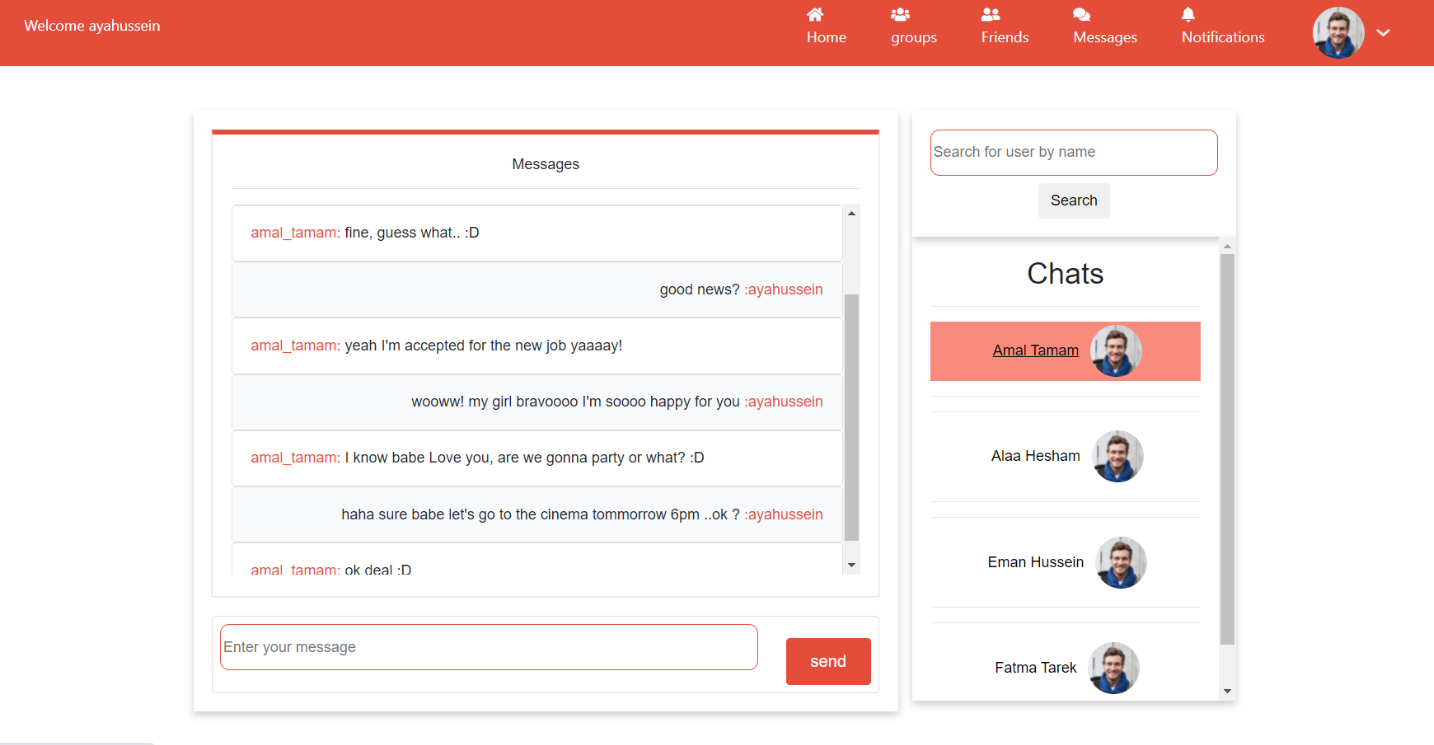
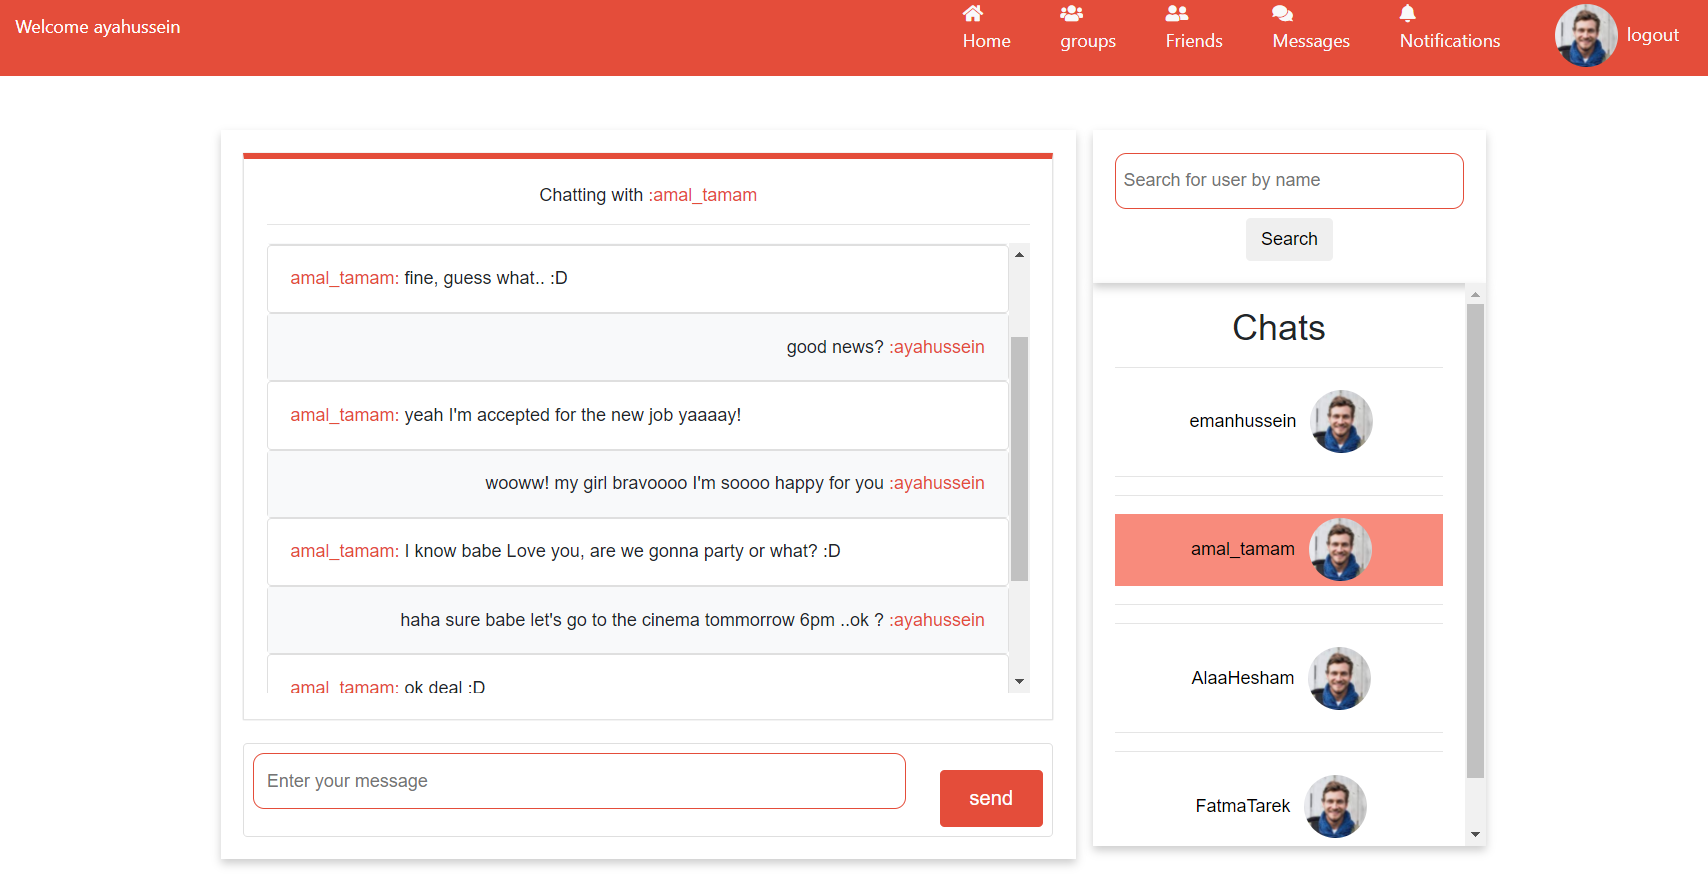
messages_createdadd added

diff --git a/msgnotifications/templates/index.html b/msgnotifications/templates/index.html
@@ -7,21 +7,23 @@
         <div class="col-sm-8 mycard d-flex flex-column">
             <div class=" post-topbar" >
                                 
-
-                    <h6>Messages</h6>
+                    <h6>Chatting with<span style="color:#e44d3a;"> :{{ msgto}}</span></h6>
                     <hr>
                     <div style="height:400px;overflow-y:scroll" >
                     {% for message in messages %}
                     <div class="card text-center">
                         {% if request.user == message.sender %}
-                            <div class="card-body  bg-light">
+                            <div class="card-body  bg-light"style="padding-bottom:0px">
                                 <h6 class="card-text"style="text-align:right">{{ message.text}}<span style="color:#e44d3a;"> :{{ message.sender}}</span></h6>
-                            
+                                <p style="text-align:left;color:gray;font-size:12px;margin:0px">{{ message.created_at}}</p>
+
                             </div>
+
                         
                         {% elif request.user == message.reciever %}
-                            <div class="card-body">
+                            <div class="card-body"style="padding-bottom:0px">
                                 <h6 class="card-text"style="text-align:left;"><span style="color:#e44d3a;">{{ message.sender}}: </span>{{ message.text}}</h6>
+                                <p style="text-align:right;color:gray;font-size:12px;margin:0px">{{ message.created_at}}</p>
 
                             </div>
                         {% endif %}
@@ -54,7 +56,7 @@
 
             <div class="mycard">
                 <form action="" method="GET">
-                    <input type="text" name="q" id="" class="post_input " placeholder="Search for user by name">
+                    <input type="text" name="q" id="" class="post_input " placeholder=" Search for user by name">
                     <input type="submit" class="btn mt-2" value="Search"></a>
                 </form>
             </div>    
@@ -64,12 +66,22 @@
 
             {% for friend in friends %}
             <hr>
-            <a href="?id={{ friend.id }}" style="color:black">
-                <div class="d-flex justify-content-center align-items-center" id="chatdiv">
-                    <div class="mx-2">{{friend.username}}</div>
-                    <img class="  m-1 rounded-circle"  src="{% static 'images/exPP3.png' %}">
-                </div>
-            </a>    
+                {% if msgto == friend.username %}
+                    <a href="?id={{ friend.id }}" style="color:black;">
+                    <div class="d-flex justify-content-center align-items-center" style="background-color:#f88b7c;"id="chatdiv">
+                        <div class="mx-2">{{friend.username}}</div>
+                        <img class="  m-1 rounded-circle"  src="{% static 'images/exPP3.png' %}">
+                    </div>
+                     </a> 
+                {% else %}
+                    <a href="?id={{ friend.id }}" style="color:black;">
+                    <div class="d-flex justify-content-center align-items-center" id="chatdiv">
+                        <div class="mx-2">{{friend.username}}</div>
+                        <img class="  m-1 rounded-circle"  src="{% static 'images/exPP3.png' %}">
+                    </div>
+                     </a>
+                {% endif %}  
+              
             <hr>
             {% endfor %} 
 

diff --git a/posts/templates/posts/index.html b/posts/templates/posts/index.html
@@ -9,7 +9,7 @@
 
             <div class="mycard">
                 <form action="" method="GET">
-                    <input type="text" name="q" id="" class="post_input " placeholder="Search for user by name">
+                    <input type="text" name="q" id="" class="post_input " placeholder="  Search for user by name">
                     <input type="submit" class="btn mt-2" value="Search"></a>
                 </form>
             </div>    
@@ -46,7 +46,7 @@
                         <div class="row">    
                             <div class="col-10">
                                 {{ form.as_p}}
-                                <input class="post_input " name="content" placeholder="What's in your mind?" />
+                                <input class="post_input " name="content" placeholder="  What's in your mind?" />
                             
                             </div>
                             <div class="col-2">
@@ -69,18 +69,20 @@
                     <div class="row">
                         <p class="col-5 tex-left "><span style="color:#e44d3a;">Post from:</span> {{post.owner}}</p>
                         <div class="col-2"></div>
+                        {% if post.owner == request.user %}
                         <div class="col-5">
                             <a href="{% url "view" post.id%}" style="color:grey;" class="mx-3"><i class="fa fa-eye" aria-hidden="true"></i></a>
                             <a href="{% url "edit" post.id%}" style="color:grey;" class="mx-3"><i class="fa fa-pen" aria-hidden="true"></i></a>
                             <a href="{% url "delete" post.id%}" style="color:grey;" class="mx-3"><i class="fa fa-trash" aria-hidden="true"></i></a>
                         </div>
+                        {% endif %}
                     </div>
                 </div>
                 <div class="card-body">
                     <h5 class="card-text">{{post.content}}</h5>
                 </div>
                 <div class="card-footer text-muted d-flex">
-                    <p >{{post.created_at}}</p>
+                    <p style="text-align:left;color:gray;font-size:12px;margin:0px">{{post.created_at}}</p>
                     <div style="width:300px"></div>
                     <a href="{% url "view" post.id%}" style="color:#e44d3a;"><i class="fa fa-comment mx-4 fa-lg " aria-hidden="true"></i></a>
                     <a  href="#" style="color:#e44d3a;"><i class="fa fa-thumbs-up mx-4 fa-lg " aria-hidden="true"></i></a>

diff --git a/posts/templates/users/index.html b/posts/templates/users/index.html
@@ -23,7 +23,7 @@
                 <div class="d-flex " style="width:100%">
                     <a class="btn-secondary btn" href="/profile/{{user.id}}" style="width:35%;"><i class="fas fa-user"></i>View Profile</a>
                     <button class="post btn" style="width:35%;"><i class="fas fa-user-plus"></i>Add Friend</button>
-                    <a class="btn-secondary btn" href="/messages/{{user.id}}" style="width:35%;"><i class="fas fa-envelope"></i>Send Message</a>
+                    <a class="btn-secondary btn" href="/messages/?id={{ user.id }}" style="width:35%;"><i class="fas fa-envelope"></i>Send Message</a>
 
                 </div>
                 <hr>

diff --git a/msgnotifications/views.py b/msgnotifications/views.py
@@ -27,24 +27,26 @@ def index(request):
     #friends= Friends.objects.all()
     
     #friends=[{'id':1,'name':"Amal Tamam",'img':"exPP3.png"},{'id':2,'name':"Alaa Hesham",'img':"alaa.png"},{'id':3,'name':"Eman Hussein",'img':"eman.png"},{'id':4,'name':"Fatma Tarek",'img':"fatma.png"}]
+    friends=User.objects.exclude(username=request.user.username)
+
     sender1=User.objects.get(pk=friendId)
     sender2= User.objects.get(username=request.user.username)
     reciever1= User.objects.get(pk=friendId)
     reciever2=User.objects.get(username=request.user.username)
     messages= Message.objects.filter(reciever=reciever1,sender=sender2) |Message.objects.filter(reciever=reciever2,sender=sender1) 
-    friends=User.objects.exclude(username=request.user.username)
+
     msg= MsgForm(request.POST or None)
     if msg.is_valid():
         form_text=msg.cleaned_data['text']
         msg_obj=Message.objects.create( text=form_text,sender=request.user,reciever=reciever1)
         msg_obj.save()
-        #return redirect("msgPage",id=friendId)
-        #return redirect(reverse('msgPage', kwargs={"id": friendId}))
         return HttpResponseRedirect(request.path_info+"?id="+str(friendId))
 
     return render(request,"index.html",{
         "friends":friends,
-        "messages":messages
+        "messages":messages,
+        "msgto":sender1.username
+
 
     })
     

diff --git a/socialMedia/settings.py b/socialMedia/settings.py
@@ -82,7 +82,7 @@ DATABASES = {
     'default': {
         'ENGINE': 'django.db.backends.mysql',
         'NAME': "socialmedia",
-        "USER": "root",
+        "USER": "root1",
         "PASSWORD": "",
         "HOST": "localhost"
     }
